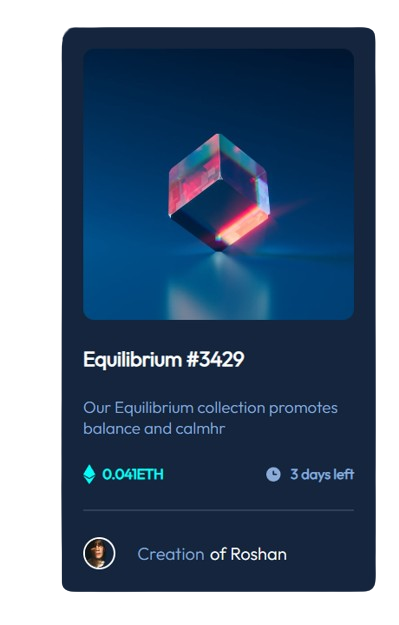
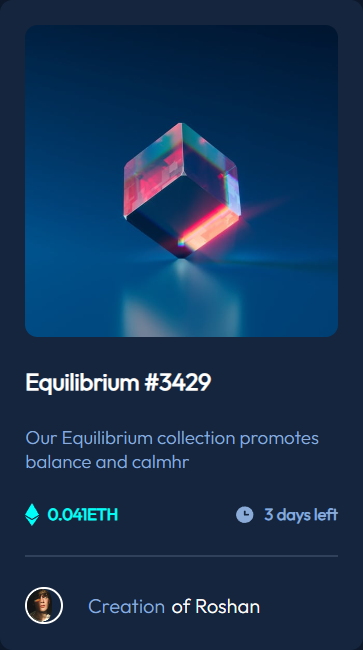
main

diff --git a/src/app/page.tsx b/src/app/page.tsx
@@ -1,15 +1,52 @@
 /* eslint-disable @next/next/no-img-element */
 import React from "react";
+import Card from "@/components/Card";
 
 export default function page() {
   return (
-    <main className="home relative">
-      <div className="p-2 text-center space-y-2">
+    <main className="home relative p-2">
+      <div className="text-center space-y-2">
         <h3 className="text-xl text-green-300 text-3d"> Welcome </h3>
         <h2 className="text-4xl text-white">
-          It{"'"}s<span className="text-red-300 text-3d"> DARKX</span>
+          It{"'"}s<span className="text-yellow-300 text-3d"> DARKX</span>
         </h2>
-        <h1 className="text-5xl text-cyan-400 text-3d ">Project {"Z"}</h1>
+        <h1 className="text-5xl text-red-400 text-3d ">Project {"Z"}</h1>
+      </div>
+      <div>
+        <div className="projects">Projects</div>
+        <div className="projects-showcase flex flex-wrap justify-between p-2">
+          <Card
+            title="E-Commerce Project"
+            url="https://interactivewindow-df217.web.app/Landing_Page/index.html"
+            imgUrl="/ec.png"
+          ></Card>
+          <Card
+            title="Landing Page"
+            url="https://interactivewindow-df217.web.app/Landing_Page_A/index.html"
+            imgUrl="/lan.png"
+          ></Card>
+          <Card
+            title="Rating Component"
+            url="https://interactivewindow-df217.web.app/Interactive_Rating_Component/index.html"
+            imgUrl="/i.png"
+          ></Card>
+          <Card
+            title="QR Component"
+            url="https://interactivewindow-df217.web.app/QR_Card_Component/index.html"
+            imgUrl="/qr.png"
+          ></Card>
+          <Card
+            title="NFT Component"
+            url="https://interactivewindow-df217.web.app/NFT_Card_Component/index.html"
+            imgUrl="/nft.png"
+          ></Card>
+          <Card
+            title="NFT Component"
+            url="https://interactivewindow-df217.web.app/NFT_Card_Component/index.html"
+            imgUrl="/nft.png"
+          ></Card>
+          
+        </div>
       </div>
       <div className=""></div>
     </main>

diff --git a/src/app/globals.css b/src/app/globals.css
@@ -27,53 +27,22 @@
     }
 }
 
-.text-3d {
-    /* position: absolute;
-    top: 50%;
-    right: 50%; */
-    /* transform: translate(50%, -50%); */
-    /* text-transform: uppercase; */
+.text-3d_ {
     font-variant: small-caps;
     font-family: Verdana, Geneva, Tahoma, sans-serif;
-    /* font-size: 12em; */
     font-weight: 700;
-    /* color: #f5f5f5; */
     text-shadow: 1px 1px 1px currentColor,
         1px 1px 1px currentColor,
-        /* 1px 3px 1px currentColor, */
-        /* 1px 4px 1px currentColor, */
-        /* 1px 5px 1px currentColor, */
-        /* 1px 6px 1px currentColor,
-        1px 7px 1px currentColor,
-        1px 8px 1px currentColor,
-        1px 9px 1px currentColor,
-        1px 10px 1px currentColor, */
         1px 18px 6px rgba(16, 16, 16, 0.4),
-        /* 1px 22px 10px rgba(16, 16, 16, 0.2), */
-        /* 1px 25px 35px rgba(16, 16, 16, 0.2), */
         1px 30px 60px rgba(16, 16, 16, 0.4);
 }
-.text-3d-power {
-    /* position: absolute;
-    top: 50%;
-    right: 50%; */
-    /* transform: translate(50%, -50%); */
-    /* text-transform: uppercase; */
-    /* font-variant: small-caps; */
+.text-3d-power_ {
     font-family: Verdana, Geneva, Tahoma, sans-serif;
     font-size: 1.6em;
     font-weight: 700;
-    /* color: #f5f5f5; */
     text-shadow: 1px 0px 1px currentColor,
         1px 1px 1px currentColor,
         1px 3px 1px currentColor,
-        /* 1px 4px 1px currentColor,
-        1px 5px 1px currentColor, */
-        /* 1px 6px 1px currentColor,
-        1px 7px 1px currentColor,
-        1px 8px 1px currentColor,
-        1px 9px 1px currentColor,
-        1px 10px 1px currentColor, */
         1px 18px 6px rgba(16, 16, 16, 0.4),
         1px 22px 10px rgba(16, 16, 16, 0.2),
         1px 25px 35px rgba(16, 16, 16, 0.2),

diff --git a/src/app/about/page.tsx b/src/app/about/page.tsx
@@ -5,7 +5,7 @@ import React from "react";
 
 export default function page() {
   const text =
-    "I am a highly motivated and self-taught programmer with a strong passionfor software development. Despite my lack of formal experience, I have adeep understanding of a variety of programming languages and frameworks,and I am eager to learn new technologies. I am also a creative problemsolver with a knack for finding elegant solutions to complex problems.";
+    "I am a highly motivated and self-taught programmer with a strong passion for software development. Despite my lack of formal experience, I have adeep understanding of a variety of programming languages and frameworks,and I am eager to learn new technologies. I am also a creative problemsolver with a knack for finding elegant solutions to complex problems.";
   return (
     <main className="text-center relative ">
       <div className="profile mx-auto w-fit">
@@ -37,8 +37,9 @@ export default function page() {
           <span className="text-green-300">India</span>.
         </p>
       </div>
-      <div className="about-me">
-        <div className="typewriter"></div>
+      <div className="about-me
+      ">
+        {text}
       </div>
       <footer className="footer footer-center p-4 bg-base-300 text-base-content fixed bottom-0">
         <aside>

diff --git a/src/components/Card.tsx b/src/components/Card.tsx
@@ -1,15 +1,21 @@
 /* eslint-disable @next/next/no-img-element */
-import Link from "next/link";
+import React from "react";
 
-export default function Card({ name, order, a }: any) {
+export default function Card(params: any) {
   return (
-    <div className="card w-full bg-base-100 shadow-xl my-2">
-        {/* <figure><img src={P} alt="Shoes" /></figure> */}
-      <div className="card-body">
-        <h2 className="card-title">{name.toUpperCase()}</h2>
-        <p>order</p>
+    <div className="card w-56 h-72  bg-base-100 shadow-xl image-full">
+      <figure>
+        <img src={params.imgUrl} alt="Shoes" />
+      </figure>
+      <div className="card-body transition-all">
+        <h2 className="card-title">{params.title}</h2>
+        <p></p>
         <div className="card-actions justify-end">
-          <Link href={`/pokemon/${name}`} className="btn btn-primary">More</Link>
+          <button className="btn btn-ghost shadow-md backdrop-blur-md">
+            <a style={{textDecoration: 'none'}} className="link" href={params.url}>
+              <span className="text-green-300 ">See Live</span>
+            </a>
+          </button>
         </div>
       </div>
     </div>

diff --git a/src/components/Dropdown.tsx b/src/components/Dropdown.tsx
@@ -1,5 +1,5 @@
 "use client";
-
+import ThemeControl from "./themeControl";
 import { Menu } from "lucide-react";
 import Link from "next/link";
 
@@ -18,6 +18,9 @@ export default function Dropdown() {
         </li>
         <li>
           <Link href="/more" className=" disabled">More?</Link>
+        </li>
+        <li>
+          {/* <ThemeControl/> */}
         </li>
       </ul>
     </details>

diff --git a/tailwind.config.ts b/tailwind.config.ts
@@ -7,11 +7,7 @@ const config: Config = {
     "./src/app/**/*.{js,ts,jsx,tsx,mdx}",
   ],
   theme: {
-    themes: [
-      "light",
-      "dark",
-      "forest",
-    ]
+    themes: ["light", "dark", "cupcake","retro","aqua"]
   },
   plugins: [require("daisyui")],
 };

diff --git a/src/app/layout.tsx b/src/app/layout.tsx
@@ -16,7 +16,7 @@ export default function RootLayout({
   children: React.ReactNode
 }) {
   return (
-    <html lang="en" data-theme="forest">
+    <html lang="en" data-theme>
       <body className={inter.className}>
         <Navbar/>
         {children}
